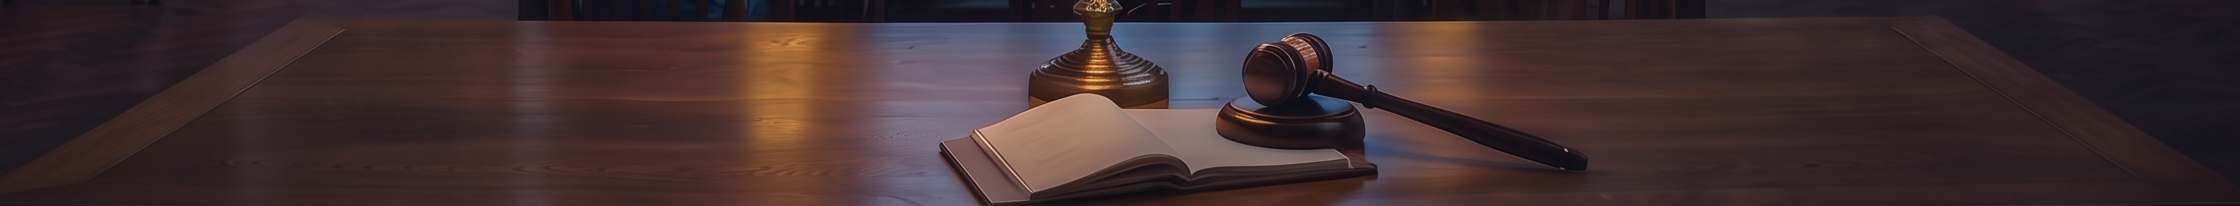
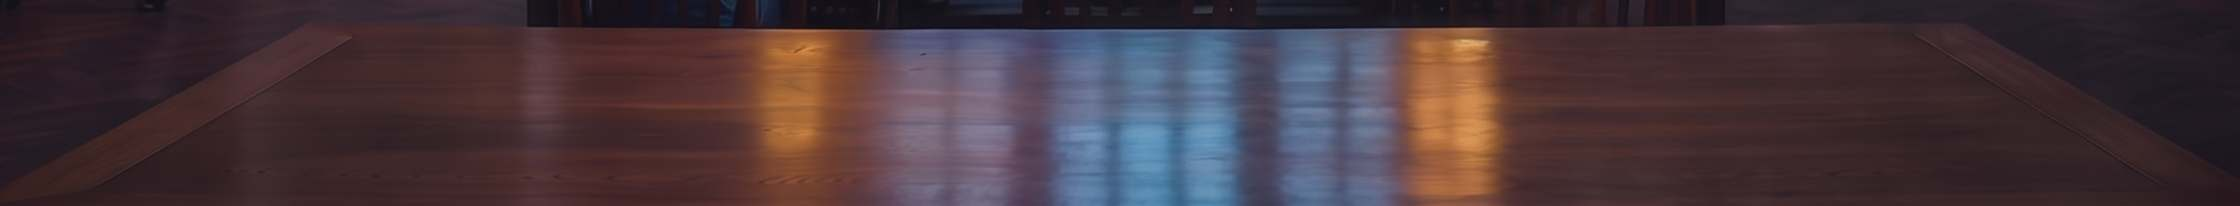
Hero: keyboard as a flat trapezoid tapering to the front (all rows visible); desk strip cleared of book, gavel and lamp

diff --git a/index.html b/index.html
@@ -267,19 +267,20 @@
     box-shadow: inset 0 0 0 1px rgba(140,190,255,0.16);
     animation: screenOn 700ms var(--ease) 350ms both;
   }
-  /* The keyboard deck, seen from above the desk: a flat panel tipped toward the
-     viewer (rotateX), so it reads as a keyboard in perspective, wider at the front. */
-  .laptop-deck { position: relative; height: 128px; margin: 0 -6%; perspective: 900px; perspective-origin: 50% -260px; }
+  /* The keyboard deck, drawn as a trapezoid that tapers toward the front (Dan picked
+     this over a flared 3D version). Flat 2D on purpose: identical in every browser. */
+  .laptop-deck { position: relative; height: 112px; margin: 0 -1.5%; }
   .deck-top {
-    position: absolute; left: 0; right: 0; top: 0; height: 230px; transform-origin: 50% 0; transform: rotateX(-50deg);
-    background: linear-gradient(#d3d8de, #b3b9c1 70%, #9aa0a8); border-radius: 0 0 22px 22px;
-    border-bottom: 7px solid #6f757d; box-shadow: 0 10px 24px rgba(0,0,0,0.6);
+    position: absolute; inset: 0;
+    clip-path: polygon(0 0, 100% 0, 95% 100%, 5% 100%);
+    background: linear-gradient(#d6dbe1, #b9bfc7 72%, #7c828a 94%, #5d636b);
+    filter: drop-shadow(0 12px 16px rgba(0,0,0,0.7));
   }
-  .keys { position: absolute; left: 7%; right: 7%; top: 7%; height: 52%; display: grid; grid-template-columns: repeat(14, 1fr); gap: 5px; padding: 8px; background: #8e949c; border-radius: 6px; }
+  .keys { position: absolute; left: 8.5%; right: 8.5%; top: 7%; height: 60%; display: grid; grid-template-columns: repeat(14, 1fr); grid-template-rows: repeat(5, 1fr); gap: 3px 4px; padding: 5px 6px; background: #8e949c; border-radius: 5px; }
   .keys i { background: #1c1f24; border-radius: 3px; box-shadow: inset 0 -2px 0 rgba(255,255,255,0.05); transition: background 160ms, box-shadow 160ms; }
   .keys i.space { grid-column: span 8; }
   .keys i.hit { background: #3a6fb8; box-shadow: 0 0 12px 2px rgba(120,180,255,0.8); }
-  .trackpad { position: absolute; left: 35%; right: 35%; top: 66%; height: 26%; border-radius: 10px; background: linear-gradient(#bfc5cc, #b0b6be); box-shadow: inset 0 0 0 1px rgba(0,0,0,0.18); }
+  .trackpad { position: absolute; left: 39%; right: 39%; top: 72%; height: 17%; border-radius: 10px; background: linear-gradient(#bfc5cc, #b0b6be); box-shadow: inset 0 0 0 1px rgba(0,0,0,0.18); }
   /* The desk: a strip of the library desk from the same photo, anchored under the
      laptop so the laptop, Lady Justice and the scales all stand on it at any width. */
   .desk-top {
@@ -534,9 +535,8 @@
     .lobby-desk { order: 3; }
     /* Phone laptop: thin bezel, no help line, so #ncRunBtn stays on the first screen. */
     .laptop-lid { padding: 8px 8px 12px; border-radius: 12px 12px 5px 5px; }
-    .laptop-deck { height: 56px; margin: 0 -4%; perspective: 360px; }
-    .deck-top { height: 124px; }
-    .keys { gap: 2px; padding: 4px; }
+    .laptop-deck { height: 64px; margin: 0 -3%; }
+    .keys { gap: 2px; padding: 3px; }
     .desk-top { top: calc(100% - 78px); height: 110px; width: 1100px; margin-left: -550px; }
     .laptop .intake-sheet { padding: 14px 14px 14px; }
     .laptop .sheet-head { margin: -14px -14px 12px; }
